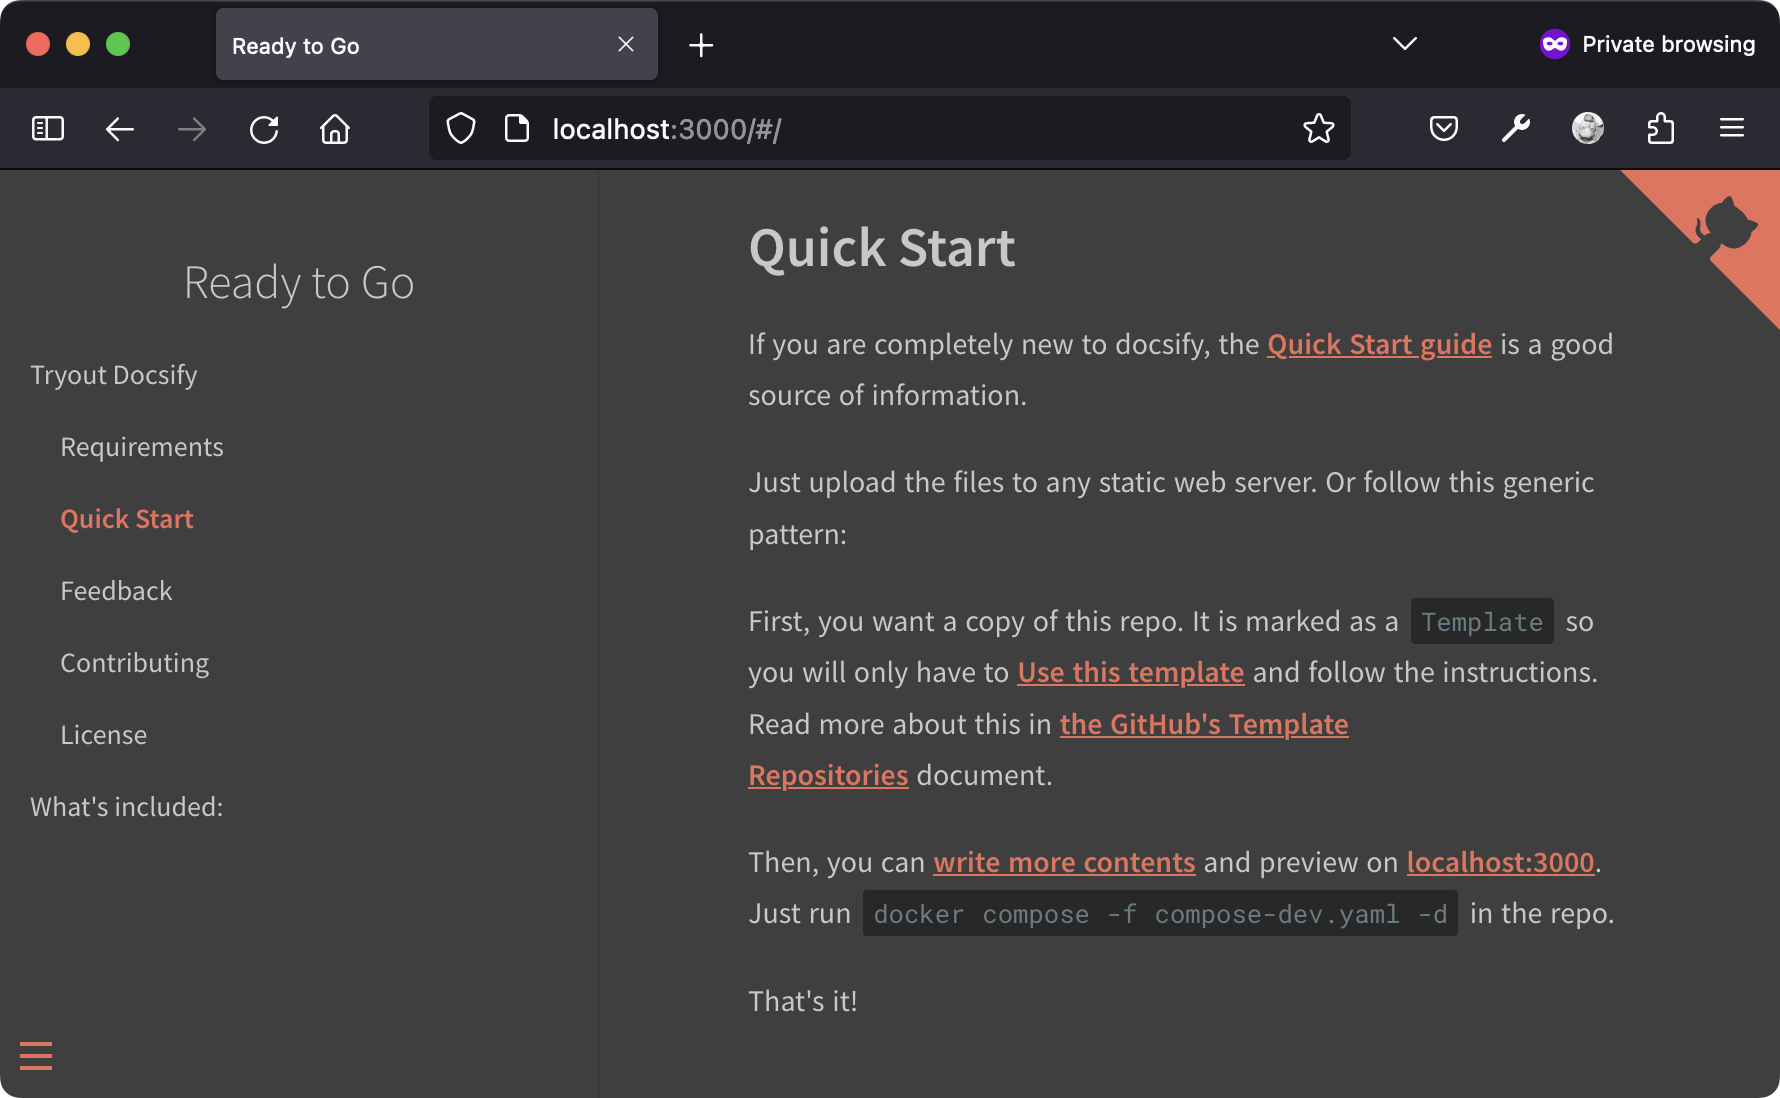
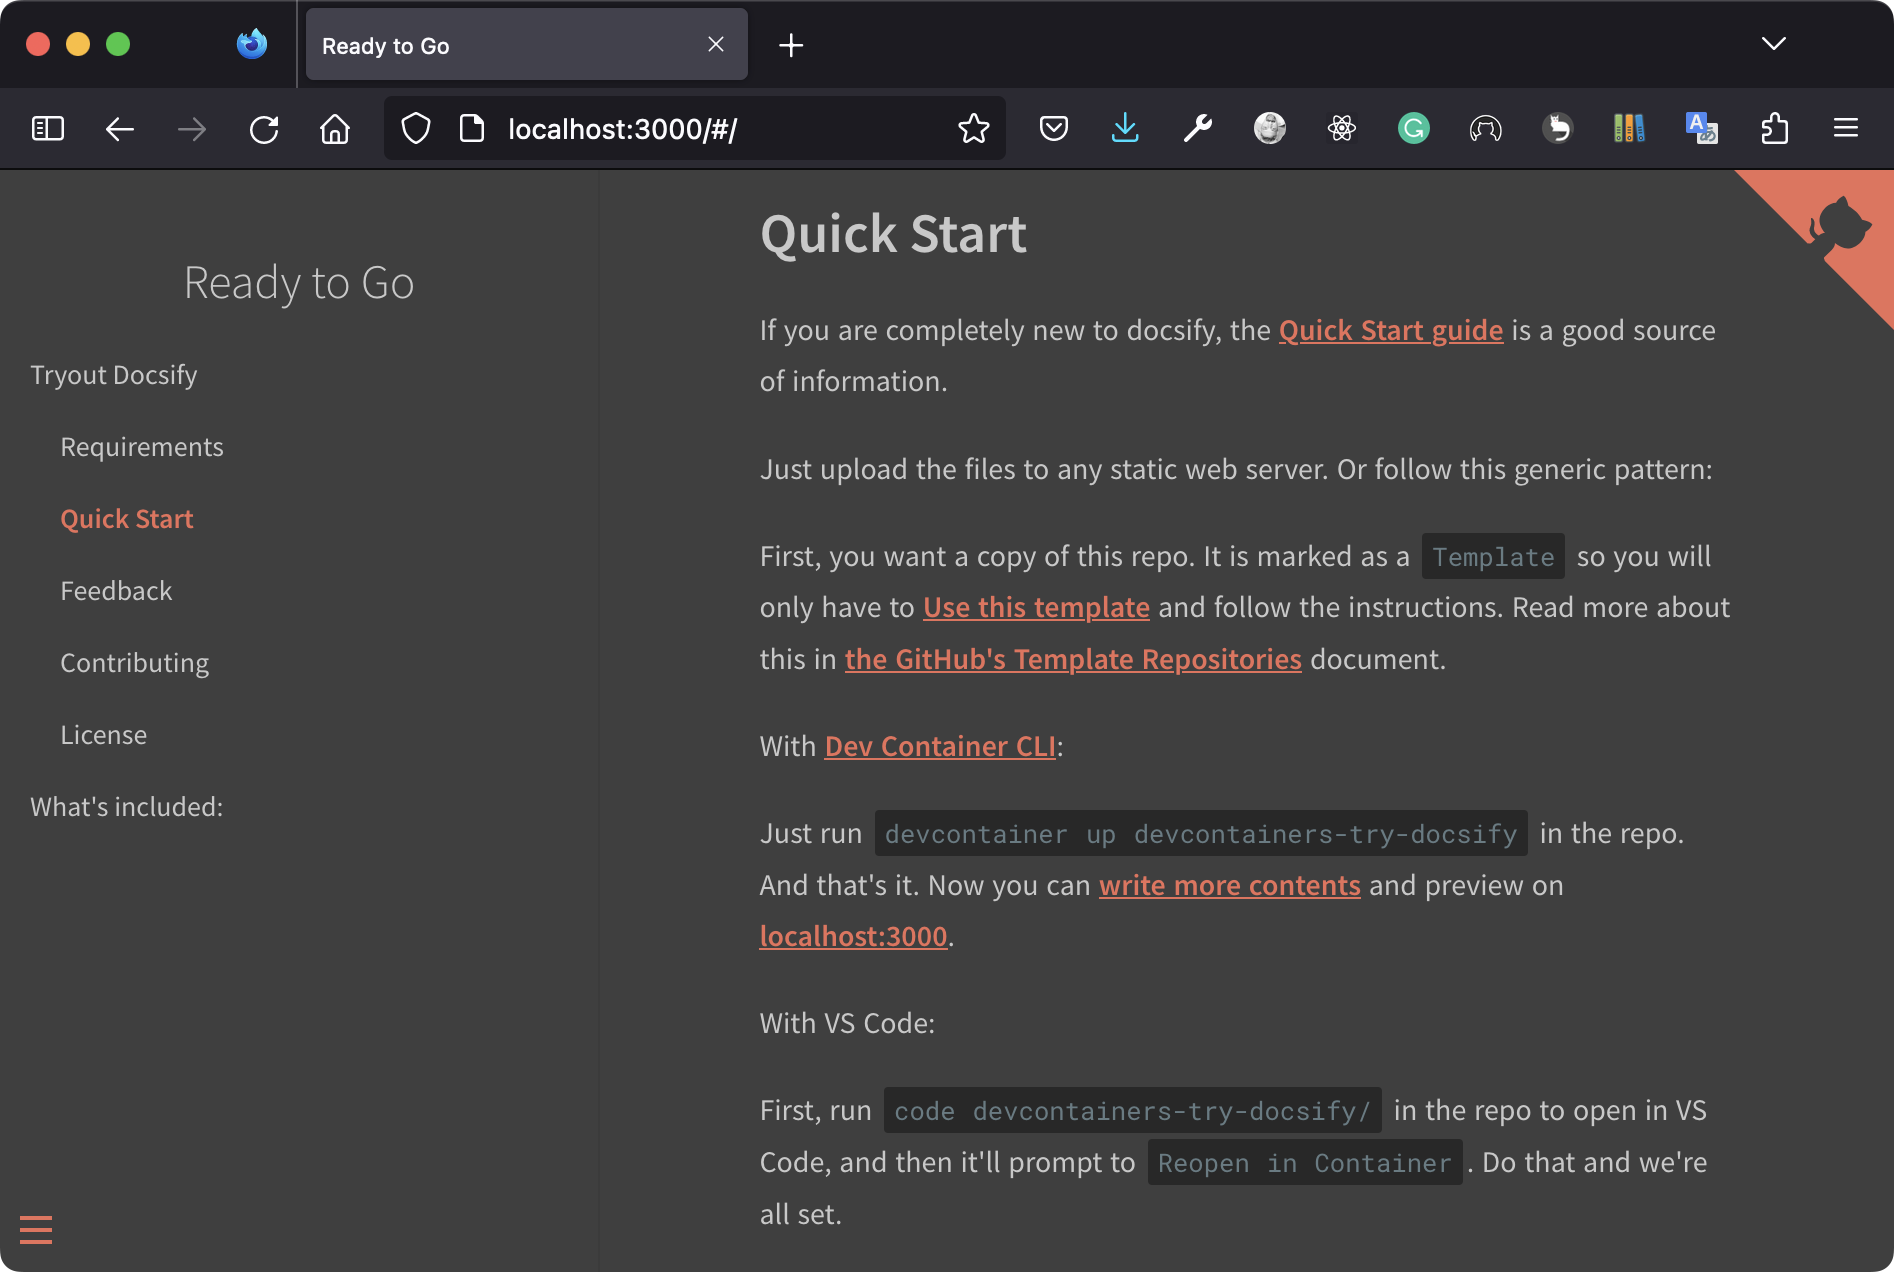
docs: update content according to open devcontainers

diff --git a/README.md b/README.md
@@ -3,7 +3,16 @@
 [![docsify](https://img.shields.io/badge/maintained%20with-docsify-cc00ff.svg)](https://docsify.js.org/)
 ![GitHub repo size](https://img.shields.io/github/repo-size/alertbox/devcontainers-try-docsify)
 
-This repo serves as a ready-to-go docsify template that requires no build steps.
+[<img align="right" alt="Docsify" width="128rem" src="https://avatars.githubusercontent.com/u/40133106?s=200&v=4" />][docsify-quick-start]
+
+This template repo serves as a flavor of ready-to-go development container for use with [Dev Containers][devcontainers-overview].
+
+> Originally, this dev container was created to tryout ready-to-go docsify template that requires no build steps.
+
+[docsify-quick-start]: https://docsify.js.org/#/quickstart
+[devcontainers-overview]: https://containers.dev/supporting#dev-containers
+
+
 
 <p align="center">
   <img alt="The docsify site in action" src="Screenshot.png" width="1024">
@@ -16,20 +25,25 @@ This repo serves as a ready-to-go docsify template that requires no build steps.
 
 Technically, this includes nothing but:
 
-- A simple template found in [@docsifyjs/docsify-template][docsify-template-repo] repo, and
-- Configured to preview locally
+- A simple template found in [@docsifyjs/docsify-template][docsify-template-repo] repo
+- Configured to [preview locally](#quick-start), and
+- Powered by [Docsify][docsify-js] and [Open Dev Containers][devcontainers-overview]
 
 [docsify-template-repo]: https://github.com/docsifyjs/docsify-template
+[docsify-js]: https://docsify.js.org/
+
+
 
 ## Requirements
 
-See [Docker dev environments][docker-dev-envs-overview] to get started at the most basic level, and:
+See [dev containers][devcontainers-overview] to get started at the most basic level, and:
 - A GitHub account, and
 - A [Markdown][github-markdown-guides] editor, like [Typora][typora-install], a lightweight and easy-to-use syntax for all forms of writing on the GitHub platform
 
-[docker-dev-envs-overview]: https://docs.docker.com/desktop/dev-environments/
 [github-markdown-guides]: https://guides.github.com/features/mastering-markdown/
 [typora-install]: https://www.typora.io/
+
+
 
 ## Quick Start
 
@@ -39,26 +53,55 @@ Just upload the files to any static web server. Or follow this generic pattern:
 
 First, you want a copy of this repo. It is marked as a `Template` so you will only have to [Use this template][use-this-template] and follow the instructions. Read more about this in [the GitHub's Template Repositories][github-template-repos-help] document.
 
-Then, you can [write more contents][docsify-write-more] and preview on [localhost:3000](http://localhost:3000). Just run `docker compose -f compose-dev.yaml -d` in the repo.
-
-That's it!
-
-[docsify-quick-start]: https://docsify.js.org/#/quickstart
 [use-this-template]: https://github.com/alertbox/devcontainers-try-docsify/generate/
 [github-template-repos-help]: https://help.github.com/en/github/creating-cloning-and-archiving-repositories/creating-a-repository-from-a-template
+
+
+
+With [Dev Container CLI][devcontainer-cli-commands]:
+
+Just run `devcontainer up devcontainers-try-docsify` in the repo. And that's it. Now you can [write more contents][docsify-write-more] and preview on [localhost:3000](http://localhost:3000).
+
+[devcontainer-cli-commands]: https://github.com/devcontainers/cli#try-out-the-cli
 [docsify-write-more]: https://docsify.js.org/#/more-pages
 
+
+
+With VS Code:
+
+First, run `code devcontainers-try-docsify/` in the repo to open in VS Code, and then it'll prompt to `Reopen in Container`. Do that and we're all set.
+
+
+
+## Learning Resources
+
+- [GitHub Learning Lab for GitHub Pages](https://lab.github.com/githubtraining/github-pages)
+- [Mastering Markdown](https://guides.github.com/features/mastering-markdown/)
+- [Create GitHub Pages with Docsify](https://www.youtube.com/watch?v=TV88lp7egMw)
+- [Creating additional pages and content using Docsify](https://docsify.js.org/#/more-pages)
+
+> [Awesome Lists](https://github.com/sindresorhus/awesome) are curated lists of awesome stuff. But, what is awesome?
+
+[Awesome Docsify](https://github.com/docsifyjs/awesome-docsify/) | [GitHub Cheat Sheet](https://github.com/tiimgreen/github-cheat-sheet)
+
+
+
 ## Feedback
+
 If you have any technical problems with Docsify, you are better off [asking Docsify Support directly][docsify-support], since you'll end up getting a much faster response back that way.
 
 [docsify-support]: https://discord.gg/3NwKFyR
 
 ## Contributing
+
 The official repo to contribute would be [@docsifyjs][docsify-github].
 
 [docsify-github]: https://github.com/docsifyjs
 
+
+
 ## License
+
 Copyright (c) Alertbox Inc. All rights reserved.
 
 The source code is license under the [MIT License](LICENSE).
